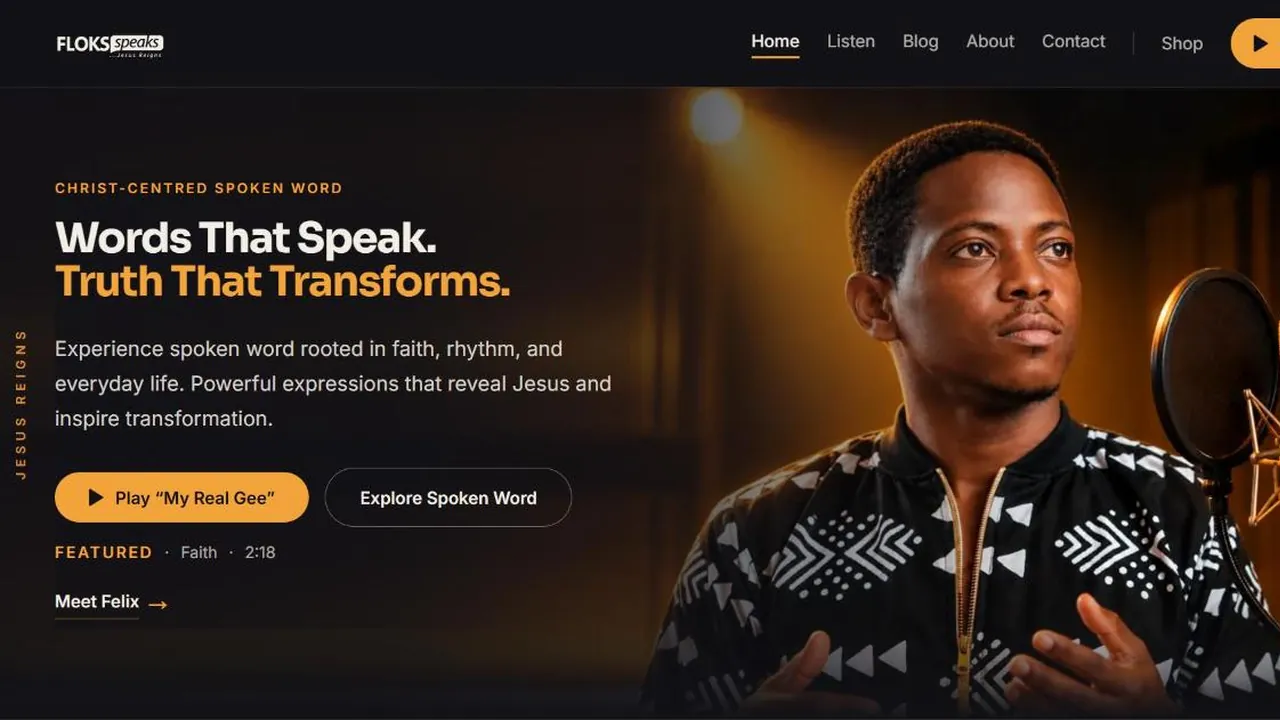
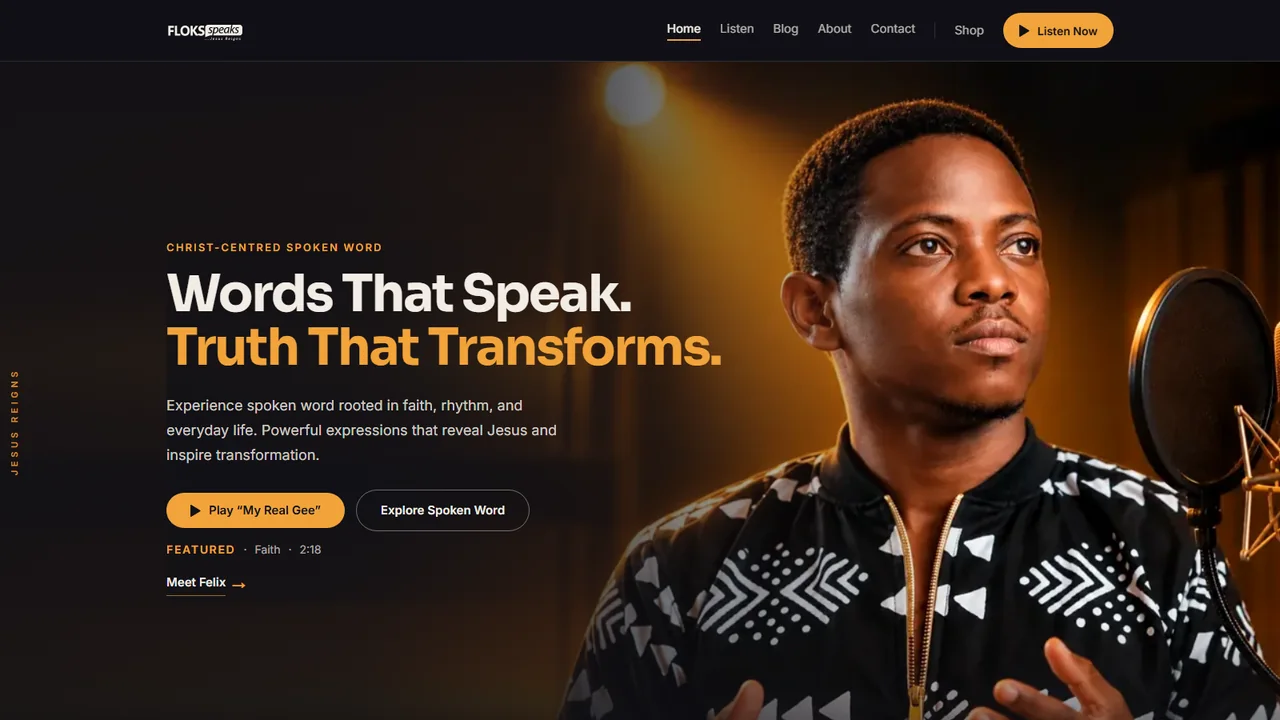
Floks Speaks: replace every capture with the clean set
The owner supplied sixteen captures taken without browser chrome.
Everything shot earlier is removed rather than kept alongside.

Block 08 is now six images chosen to tell the build in order: the
whole homepage, the homepage on a phone, the whole Listen page, the
library on a phone, a single recording, and the booking form. The two
full-page captures render in the scrollable frame; the rest are flat.

The hero and the card srcset are regenerated from the clean homepage
capture. ProjectCard builds its srcset from -1280, -960 and -480, so
those three keep the 16:9 ratio the template hard-codes. The source
was 1600x1000, cropped to 1600x900 off the foot, where there was only
empty ground.

The Contact capture earns its place: block 10 claims bookings now
arrive through the site, and this is the form that receives them.

Six superseded files deleted, each checked for references first.

QA passes, 6,868 contrast pairs, no broken images across 64
viewport and theme combinations.

Claude-Session: https://claude.ai/code/session_01Qdrer2qq7nNfJBYZv1UTqo

diff --git a/src/content/work/floks-speaks.md b/src/content/work/floks-speaks.md
@@ -84,40 +84,40 @@ identity:
 shots:
   - src: /img/floks-speaks-full-960.webp
     w: 960
-    h: 4034
+    h: 3410
     device: full
-    alt: The complete Floks Speaks homepage, from the hero through releases, the artist profile, themes, blog, events, merchandise and the footer
-    caption: The full homepage, scrollable. The featured track sits above the fold with its title and runtime, so listening is one click from arrival.
-  - src: /img/floks-speaks-mobile-780.webp
+    alt: The complete Floks Speaks homepage, from the hero through latest releases, the artist profile, a scripture panel, themes, the blog, events, merchandise and the platform row
+    caption: The full homepage. Listening sits above the fold, and everything beneath it is a reason to keep going.
+  - src: /img/floks-speaks-home-mobile-780.webp
     w: 780
-    h: 1697
+    h: 1688
     device: mobile
-    alt: The Floks Speaks homepage on a phone, photography stacked above the headline
-    caption: Mobile. The photograph moves above the headline and the two calls to action stack full width.
-  - src: /img/floks-speaks-listen-1200.webp
-    w: 1200
-    h: 610
-    device: desktop
-    alt: The Listen page on Floks Speaks, a full-bleed performance photograph behind the heading Every word, in one place
-    caption: The library. One address for everything he has recorded, searchable by theme or by a line you half remember.
-  - src: /img/floks-speaks-listen-mobile-376.webp
-    w: 376
-    h: 855
+    alt: The Floks Speaks homepage on a phone, the studio photograph above the headline with both calls to action stacked beneath
+    caption: The same hero on a phone. Photograph first, then the claim, then the play control.
+  - src: /img/floks-speaks-listen-full-960.webp
+    w: 960
+    h: 2646
+    device: full
+    alt: The complete Listen page, hero and featured recording above a searchable grid of eight pieces, theme filters, collections and the podcast platform row
+    caption: The library in full. Search, four themes, and collections that hold pieces in the order they are meant to be heard.
+  - src: /img/floks-speaks-listen-mobile-780.webp
+    w: 780
+    h: 1688
     device: mobile
-    alt: The Listen page on a phone, the performance photograph stacked above the heading and the first recording below it
-    caption: The library on a phone. The photograph crops to a band and the first piece sits immediately beneath it.
+    alt: The Listen page on a phone, performance photograph cropped to a band above the heading, with the featured recording below
+    caption: The library on a phone, where most of his audience meets it.
   - src: /img/floks-speaks-piece-1200.webp
     w: 1200
-    h: 610
+    h: 750
     device: desktop
-    alt: A single recording page on Floks Speaks, cover artwork beside the title My Real Gee with a theme tag, date, runtime and a play control
-    caption: A single piece. Cover art, theme, date and runtime, and a play control before any description. Each recording has its own URL.
-  - src: /img/floks-speaks-piece-mobile-376.webp
-    w: 376
-    h: 855
-    device: mobile
-    alt: A single recording page on a phone, cover artwork above the title and the play control at the foot
-    caption: The same piece on a phone. Artwork first, then the title, then the reason to press play.
+    alt: A single recording page, cover artwork beside the title My Real Gee with theme, date and runtime, a play control, sharing options and related pieces
+    caption: One recording, one URL. Share controls and a route onward to the next piece in the same theme.
+  - src: /img/floks-speaks-contact-1200.webp
+    w: 1200
+    h: 750
+    device: desktop
+    alt: The Contact page on a light ground, an enquiry type selector set to Booking above fields for name, email, event date and venue
+    caption: The booking path. Enquiry type first, then the date and venue fields that make a booking answerable in one reply.
 decisions:
   - title: Listening is the primary action, not reading
     body: >
